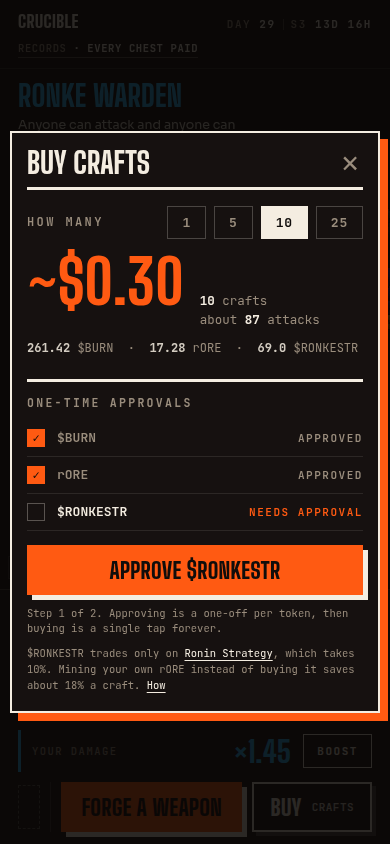
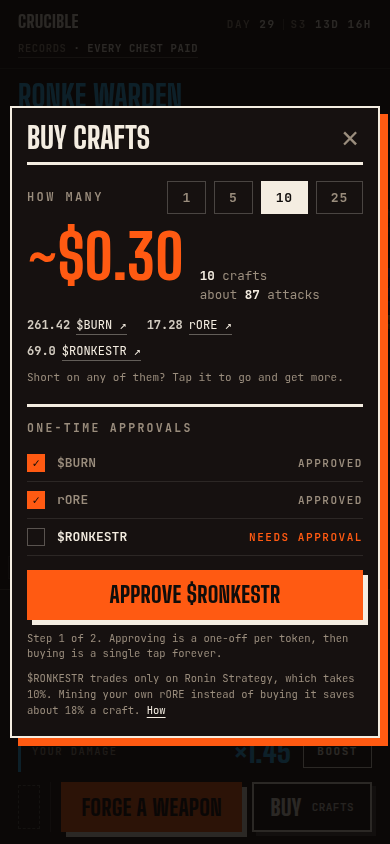
arena: buy links

Changed region(s): [[0.0308, 0.1232, 1.0, 0.8934], [0.9538, 0.1232, 1.0, 0.1848], [0.0, 0.1232, 0.0308, 0.154]]

diff --git a/mockups/arena/arena-d-synthesis.html b/mockups/arena/arena-d-synthesis.html
@@ -409,9 +409,19 @@ button{font:inherit;color:inherit;background:none;border:0;cursor:pointer}
 .buy-for{font-family:var(--mono);font-size:12.5px;line-height:1.55;color:var(--muted)}
 .buy-for b{color:var(--bone);font-weight:700}
 .buy-legs{
-  margin-top:10px;font-family:var(--mono);font-size:12px;color:var(--muted);line-height:1.6;
+  margin-top:12px;display:flex;flex-wrap:wrap;gap:8px 20px;
+  font-family:var(--mono);font-size:12px;color:var(--muted);
 }
+.buy-legs .leg{display:flex;align-items:baseline;gap:6px}
 .buy-legs b{color:rgba(244,237,225,.85);font-weight:700}
+.buy-legs a{
+  color:var(--bone);text-decoration:none;
+  border-bottom:1px solid rgba(244,237,225,.35);padding-bottom:1px;
+}
+.buy-legs a:hover{border-color:var(--bone);color:#fff}
+.buy-get{
+  margin-top:9px;font-family:var(--mono);font-size:11px;color:var(--muted);
+}
 
 .steps-k{
   margin-top:20px;padding-top:13px;border-top:3px solid var(--bone);
@@ -764,6 +774,7 @@ body[data-state="weapon"] .only-forge{display:none}
       <span class="buy-for"><b id="buyN">10</b> crafts<br>about <b id="buySwings">87</b> attacks</span>
     </div>
     <p class="buy-legs" id="buyLegs"></p>
+    <p class="buy-get">Short on any of them? Tap it to go and get more.</p>
 
     <div class="steps-k">One-time approvals</div>
     <ul class="appr" id="appr">
@@ -778,8 +789,9 @@ body[data-state="weapon"] .only-forge{display:none}
       Costs float a little: each leg is re-pegged to about a cent every hour.
     </p>
     <p class="sheet-fine buy-x">
-      $RONKESTR trades only on <a href="#">Ronin Strategy</a>, which takes 10%.
-      Mining your own rORE instead of buying it saves about 18% a craft. <a href="#">How</a>
+      $RONKESTR trades only on Ronin Strategy, which takes 10%. Mining your own rORE
+      instead of buying it saves about 18% a craft.
+      <a href="https://burncoin.tech/miners" target="_blank" rel="noreferrer">How</a>
     </p>
   </div>
 </div>
@@ -1016,10 +1028,19 @@ body[data-state="weapon"] .only-forge{display:none}
      Per-craft leg costs are the LIVE on-chain quote from CrucibleForgeV2
      (legs v22): quote(1) = 26.142272 BURN + 1.728455 rORE + 6.9 RONKESTR.
      Everything below scales from that, so any quantity stays truthful. */
+  /* Where to actually GET each token. Taken from production, with one correction:
+     the live LEG_TOKENS map sends $BURN to Katana, which routes through the taxed
+     BURN/RON pair. burncoin.tech's own Trade $BURN runs the Zap (wBURN/USDC) and
+     skips the 6.66% tax, so that is where a player should be sent. */
   var LEGS = [
-    { sym:'$BURN',      per:26.142272, dp:2 },
-    { sym:'rORE',       per:1.728455,  dp:2 },
-    { sym:'$RONKESTR',  per:6.9,       dp:1 }
+    { sym:'$BURN', per:26.142272, dp:2,
+      url:'https://burncoin.tech/dashboard', where:'burncoin.tech, no 6.66% tax' },
+    { sym:'rORE', per:1.728455, dp:2,
+      url:'https://app.roninchain.com/swap?outputCurrency=0x56418E06A569ce559b457F533A4f8D9D51a27cA8',
+      where:'Katana' },
+    { sym:'$RONKESTR', per:6.9, dp:1,
+      url:'https://roninstrategy.fun/strategy/0x404533a09bf281199ce6b0ef60b7eff7123ff8dc',
+      where:'Ronin Strategy, 10% fee' }
   ];
   var USD_PER_CRAFT = 0.03;
   var SWINGS_PER_CRAFT = 8.7;            // measured: players push well past the safe floor
@@ -1030,8 +1051,10 @@ body[data-state="weapon"] .only-forge{display:none}
     $('buyUsd').textContent = '~$' + (buyN * USD_PER_CRAFT).toFixed(2);
     $('buySwings').textContent = Math.round(buyN * SWINGS_PER_CRAFT);
     $('buyLegs').innerHTML = LEGS.map(function(l){
-      return '<b>' + (l.per * buyN).toFixed(l.dp) + '</b> ' + l.sym;
-    }).join(' &nbsp;·&nbsp; ');
+      return '<span class="leg"><b>' + (l.per * buyN).toFixed(l.dp) + '</b> ' +
+        '<a href="' + l.url + '" target="_blank" rel="noreferrer" title="Get ' + l.sym +
+        ' on ' + l.where + '">' + l.sym + ' &#8599;</a></span>';
+    }).join('');
     $('buyGo').textContent = approved ? ('Buy ' + buyN + ' crafts') : 'Approve $RONKESTR';
     $('appr').lastElementChild.className = approved ? 'done' : 'todo';
     $('appr').lastElementChild.querySelector('.mk').innerHTML = approved ? '&check;' : '';

diff --git a/mockups/arena/PLAN.md b/mockups/arena/PLAN.md
@@ -417,6 +417,23 @@ Also folded in, as one quiet line rather than the two arena panels they replace:
 $RONKESTR liquidity note (Ronin Strategy, 10% fee) and the rORE mine-vs-buy nudge
 (~18% a craft).
 
+**Each leg links to where you actually get it.** Every token amount in the quote is a link,
+taken from production's `LEG_TOKENS` map, with one deliberate correction:
+
+| Leg | Goes to | Why |
+|---|---|---|
+| $BURN | `burncoin.tech/dashboard` | ⚠ **not** the Katana link production uses. That routes through the taxed BURN/RON pair; the site's own Trade $BURN runs `useZapSwap` (wBURN/USDC) and skips the **6.66% tax** |
+| rORE | Katana swap, token preselected | production pattern, thin V3 pool is the only market |
+| $RONKESTR | `roninstrategy.fun` | verified 200; the only venue, takes 10% |
+
+⚠ **Worth fixing in the live site too:** `LEG_TOKENS` in
+`burncoin-frontend-vercel/src/contracts/crucible.js` sends $BURN to `katanaSwap(...)`, so
+the shipped Crucible currently points players at the taxed route. One-line change.
+
+Link verification: `roninstrategy.fun` returns 200. `app.roninchain.com` returns 403 to
+curl and a Cloudflare human-check to a headless browser, so it could not be loaded end to
+end here; the URL matches the pattern production already ships.
+
 **Not modelled, and worth deciding before build:** what happens when a player holds none of
 the three tokens at all. Today that is an off-site errand across two venues, and no amount
 of drawer design fixes it. A single-token or RON-denominated purchase path would, and that
